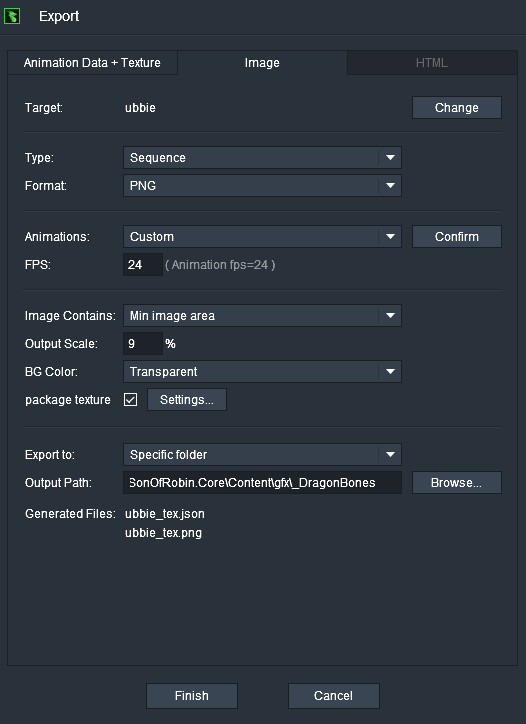
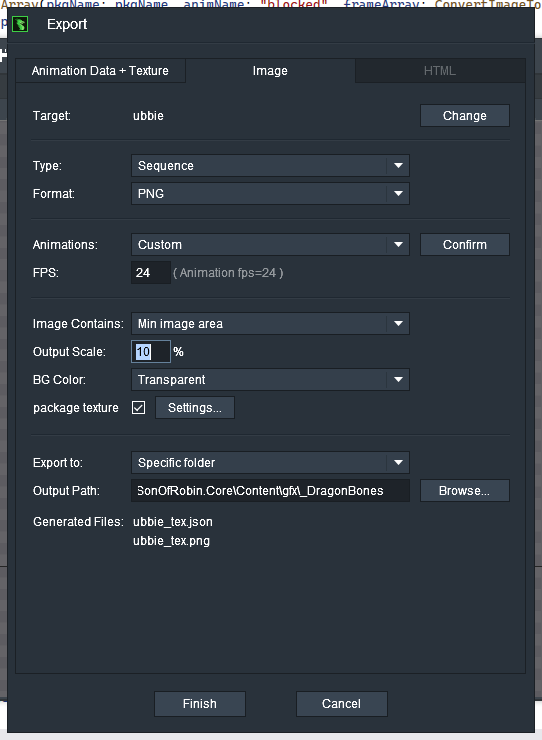
DragonBones anims system updated

diff --git a/SonOfRobin.Core/Game/Animation/AnimData.cs b/SonOfRobin.Core/Game/Animation/AnimData.cs
@@ -1973,7 +1973,7 @@ namespace SonOfRobin
                         { "walk", 1 },
                     };
 
-                    AddDragonBonesPackage(pkgName: pkgName, jsonName: "ubbie_tex.json", animSize: 0, baseAnimsFaceRight: false, durationDict: durationDict);
+                    AddDragonBonesPackage(pkgName: pkgName, jsonName: "ubbie_tex.json", animSize: 0, scale: 0.8f, baseAnimsFaceRight: false, durationDict: durationDict);
 
                     break;
 
@@ -2143,7 +2143,7 @@ namespace SonOfRobin
             AddFrameArray(pkgName: pkgName, animSize: animSize, frameArray: new AnimFrame[] { croppedFramesForPkgs[pkgName] }); // adding default frame
         }
 
-        public static void AddDragonBonesPackage(PkgName pkgName, string jsonName, byte animSize, bool baseAnimsFaceRight, Dictionary<string, short> durationDict)
+        public static void AddDragonBonesPackage(PkgName pkgName, string jsonName, byte animSize, float scale, bool baseAnimsFaceRight, Dictionary<string, short> durationDict)
         {
             string jsonPath = Path.Combine(SonOfRobinGame.ContentMgr.RootDirectory, "gfx", "_DragonBones", jsonName);
             object jsonData = FileReaderWriter.LoadJson(path: jsonPath, useStreamReader: true); // StreamReader is necessary for Android (otherwise, DirectoryNotFound will occur)
@@ -2176,7 +2176,7 @@ namespace SonOfRobin
 
                     if (!animDict.ContainsKey(animNameWithDirection)) animDict[animNameWithDirection] = new Dictionary<int, AnimFrame>();
 
-                    animDict[animNameWithDirection][frameNo] = AnimFrame.GetFrame(atlasName: atlasName, atlasX: atlasX, atlasY: atlasY, width: width, height: height, layer: 1, duration: duration, crop: false, padding: 0, mirrorX: direction == "left" ? baseAnimsFaceRight : !baseAnimsFaceRight, scale: 1f);
+                    animDict[animNameWithDirection][frameNo] = AnimFrame.GetFrame(atlasName: atlasName, atlasX: atlasX, atlasY: atlasY, width: width, height: height, layer: 1, duration: duration, crop: false, padding: 0, mirrorX: direction == "left" ? baseAnimsFaceRight : !baseAnimsFaceRight, scale: scale);
                 }
             }
 
